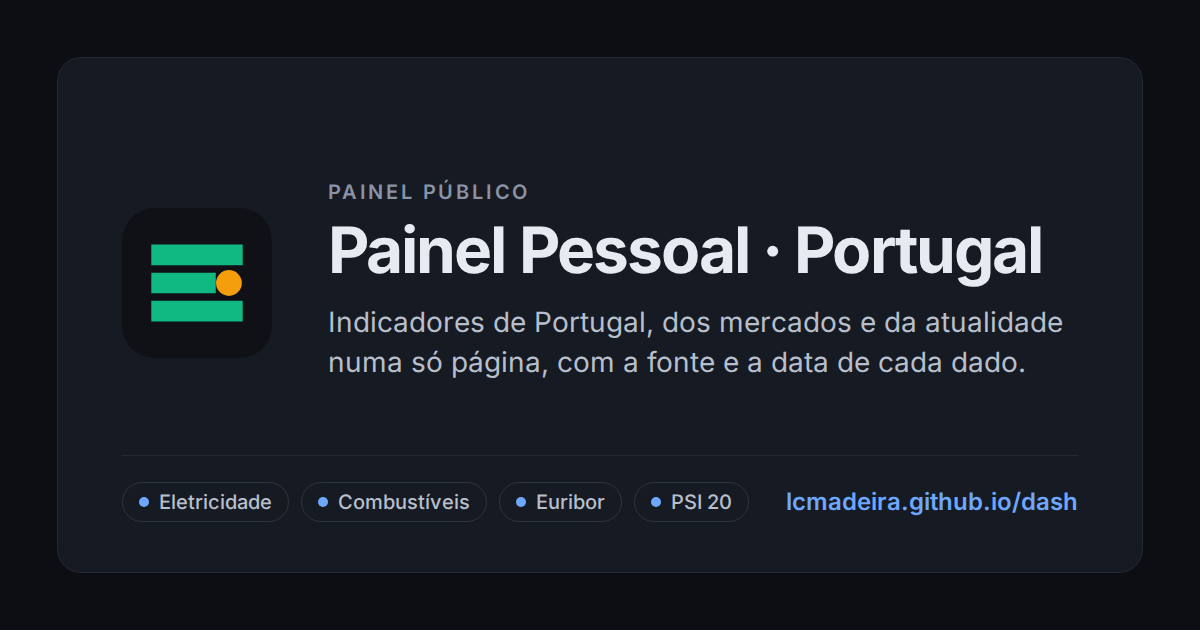
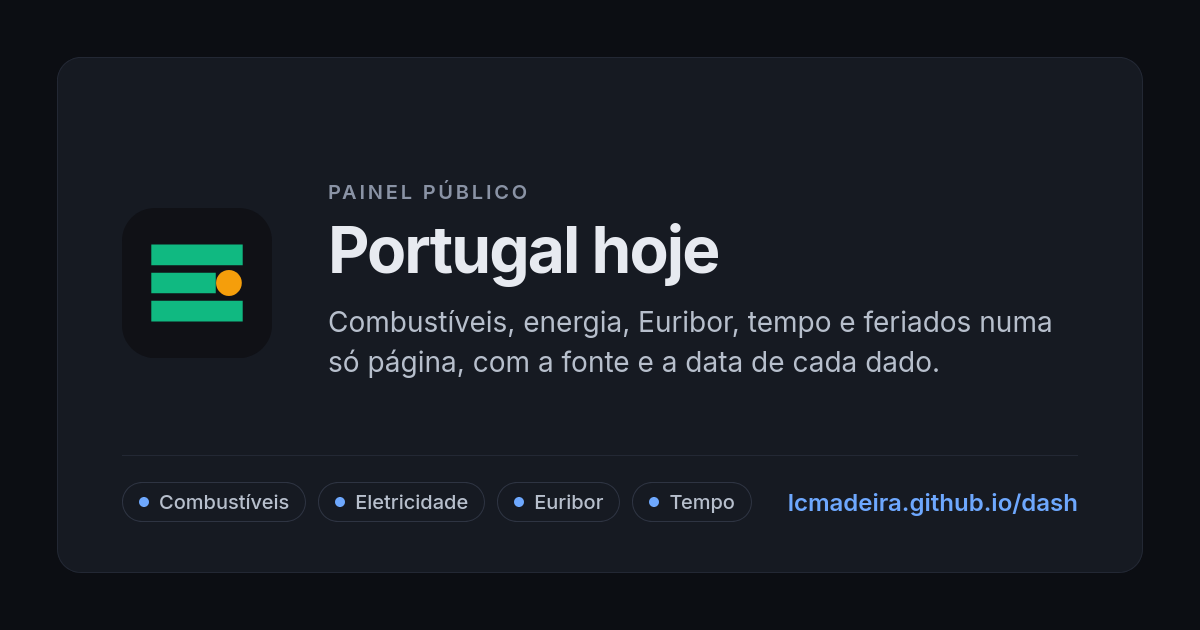
Share image, no stretch on failed cards, Markets at 1/2, holiday sources
- og.png regenerated from scripts/og-image.html ("Portugal hoje"), og:image ?v=2;
  the template documents a Firefox headless alternative.
- Mosaic: cards in error, loading or idle state are not stretched to the
  section bottom; relayout when a card's data-state changes.
- setCardStatus only writes data-state when it changes.
- Markets section: all cards at 1/2 on wide screens (full-width ones kept).
- holidays.js: document where each municipal holiday date was verified.

diff --git a/index.html b/index.html
@@ -14,7 +14,7 @@
 <meta property="og:url" content="https://lcmadeira.github.io/dash/"/>
 <meta property="og:title" content="Portugal hoje"/>
 <meta property="og:description" content="Portugal hoje numa só página: preços dos combustíveis, eletricidade OMIE, Euribor, inflação, tempo, feriados e atualidade, com fonte e data de cada dado."/>
-<meta property="og:image" content="https://lcmadeira.github.io/dash/og.png?v=1"/>
+<meta property="og:image" content="https://lcmadeira.github.io/dash/og.png?v=2"/>
 <meta property="og:image:width" content="1200"/>
 <meta property="og:image:height" content="630"/>
 <meta property="og:image:alt" content="Portugal hoje: combustíveis, energia, Euribor, tempo, feriados e atualidade numa só página."/>
@@ -40,7 +40,7 @@
 <link rel="preconnect" href="https://fonts.googleapis.com"/>
 <link href="https://fonts.googleapis.com/css2?family=Inter:wght@400;500;600;700&display=swap" rel="stylesheet"/>
 <script src="https://cdnjs.cloudflare.com/ajax/libs/Chart.js/4.4.1/chart.umd.min.js"></script>
-<link rel="stylesheet" href="styles.css?v=20261127-19"/>
+<link rel="stylesheet" href="styles.css?v=20261127-20"/>
 <!-- [html-validate-disable require-sri] -->
 <link rel="manifest" href="./manifest.webmanifest"/>
 <!-- [html-validate-enable require-sri] -->
@@ -1084,7 +1084,7 @@
  <script src="src/core.js?v=20261123-30"></script>
  <script src="src/cache.js?v=20261127-6"></script>
  <script src="src/fetch.js?v=20261123-26"></script>
-<script src="src/ui.js?v=20261127-16" integrity="sha384-FfuxkJX3jXSUI30bk0F0U9AnAoFMLSf0yEEEBGIRxAsYTl8/n/Z4ZmLKFU5v09w8"></script>
+<script src="src/ui.js?v=20261127-20" integrity="sha384-uTtbrtvgf7sO2GSztMTSTtJKpDpMBC0tv4BZfZjBML2Smbk1kXn2CxrzpiBZz3PV"></script>
  <script src="src/market-calendar.js?v=20261029-1" integrity="sha384-yJK/LAbvZnS13+ZHroHFKhfOWo+fXm1uM4Y+gmS76BpgPoDtZ/3nnhvsgIgnlBk3"></script>
  <script src="src/cards/briefing.js?v=20261127-11" integrity="sha384-sG/5KoS10FD2+JlOnCXOwna1ekXggZPpC4uw3W/KrWjp+aB6G6kF4bHld+aYgkL0"></script>
  <script src="src/offline.js?v=20261029-2" integrity="sha384-xNxRTbPSnEkNtZ0nSqscdT5Ia0+/d6RqzHXkt4ZjcJTGqMhlUOtZye07+aYT/v71"></script>
@@ -1095,7 +1095,7 @@
  <script src="src/cards/dams.js?v=20261123-22"></script>
  <script src="src/cards/fuel.js?v=20261127-16"></script>
  <script src="src/cards/weather.js?v=20261127-16"></script>
- <script src="src/cards/holidays.js?v=20261127-16"></script>
+ <script src="src/cards/holidays.js?v=20261127-20"></script>
  <script src="src/cards/air-quality.js?v=20261123-22"></script>
  <script src="src/cards/market-stats.js?v=20261123-26"></script>
  <script src="src/cards/real-estate.js?v=20261123-22"></script>
@@ -1121,7 +1121,7 @@
  <!-- Atualizar a versão para invalidar caches após alterações nestes scripts clássicos. -->
  <script src="src/widgets/market-clock.js?v=20261013-5"></script>
 <script src="src/app.js?v=20261127-16"></script>
-<script src="src/layout.js?v=20261127-19" integrity="sha384-kgSn24a5R8ru6qUEzVLfn2DRa5F/LQAtHfmbM4Vid4m8xyMD/jCyZ1ebInuT7Pjd"></script>
+<script src="src/layout.js?v=20261127-20" integrity="sha384-MvHLZ8K+C4rjxBSa0DVwZtlMW6IeZtgM/9mAt9RDxH45tatrzhbW05YrBeih11AY"></script>
 <!-- Cloudflare Web Analytics (sem cookies) -->
 <!-- [html-validate-disable require-sri] -->
 <script type="module" src="https://static.cloudflareinsights.com/beacon.min.js" data-cf-beacon='{"token": "feb824df5867472daf1f4d33da525597"}'></script>

diff --git a/src/layout.js b/src/layout.js
@@ -61,8 +61,10 @@
       placed[card.index] = { start: slot.start, span: card.span, top: slot.top, rows: footprint / ROW_PX, fill: false };
     }
     const height = Math.max(0, ...sky);
-    // Fundo alinhado: estica o card que é o último em todas as colunas que ocupa.
-    placed.forEach((p) => {
+    // Fundo alinhado: estica o card que é o último em todas as colunas que ocupa
+    // (exceto cards marcados noFill: em erro ou ainda sem dados ficariam quase vazios).
+    placed.forEach((p, i) => {
+      if (cards[i].noFill) return;
       let last = true;
       for (let c = p.start; c < p.start + p.span; c++) if (sky[c] !== p.top + p.rows * ROW_PX) last = false;
       if (last && p.top + p.rows * ROW_PX < height) {
@@ -80,6 +82,13 @@
     // "grid-column: span 2" fica em grid-column-start; "x / span 2" fica em grid-column-end.
     const match = /span\s+(\d+)/.exec(`${style.gridColumnStart} ${end}`);
     return match ? Number(match[1]) : 1;
+  }
+
+  /** Card com dados (ao vivo ou em cache)? Em erro, a carregar ou sem estado: não esticar. */
+  function hasData(item) {
+    const status = item.querySelector(".card-status[data-status-for]");
+    if (!status) return true;
+    return !["error", "loading", "idle"].includes(status.dataset.state);
   }
 
   function outerHeight(item) {
@@ -110,7 +119,7 @@
       item.style.gridRowStart = "";
       item.style.gridRowEnd = "";
     });
-    const cards = items.map((item) => ({ span: naturalSpan(item, cols) }));
+    const cards = items.map((item) => ({ span: naturalSpan(item, cols), noFill: !hasData(item) }));
     items.forEach((item, i) => {
       item.style.gridColumn = `span ${cards[i].span}`;
     });
@@ -145,6 +154,8 @@
     // O ResizeObserver só avisa quando o tamanho final muda; medir e repor no mesmo frame não o dispara.
     const resize = new window.ResizeObserver(schedule);
     const observeChildren = (grid) => Array.from(grid.children).forEach((child) => resize.observe(child));
+    const statusChanges = new window.MutationObserver(schedule);
+    const watchStatus = (grid) => statusChanges.observe(grid, { subtree: true, attributes: true, attributeFilter: ["data-state"] });
     const mutations = new window.MutationObserver((records) => {
       records.forEach((record) => record.addedNodes.forEach((node) => {
         if (node.nodeType === 1) resize.observe(node);
@@ -153,6 +164,7 @@
     });
     grids().forEach((grid) => {
       observeChildren(grid);
+      watchStatus(grid);
       mutations.observe(grid, { childList: true });
     });
     window.addEventListener("resize", schedule);

diff --git a/scripts/og-image.html b/scripts/og-image.html
@@ -5,6 +5,9 @@
     python3 -m http.server 8000
     chrome --headless --hide-scrollbars --window-size=1200,630 --virtual-time-budget=5000 \
       --screenshot=og.png "http://localhost:8000/scripts/og-image.html"
+  Sem Chrome, o Firefox também serve (perfil temporário, porque pode estar aberto):
+    firefox --headless --no-remote --profile "$(mktemp -d -p ~)" --window-size=1200,630 \
+      --screenshot ~/og.png "http://localhost:8000/scripts/og-image.html"
   Depois de mudar a imagem, subir o ?v= de og:image em index.html.
 -->
 <html lang="pt-PT">
@@ -29,7 +32,7 @@
   .pills { display: flex; gap: 12px; }
   .pills span { font: 500 20px/1 "Inter", sans-serif; color: #B7BFCC; border: 1px solid #2E3442; border-radius: 999px; padding: 9px 16px; display: flex; align-items: center; gap: 10px; }
   .pills i { width: 10px; height: 10px; border-radius: 50%; background: #6EA8FE; }
-  .domain { font: 600 24px/1 "Inter", sans-serif; color: #6EA8FE; }
+  .domain { font: 600 24px/1 "Inter", sans-serif; color: #6EA8FE; white-space: nowrap; }
 </style>
 </head>
 <body>
@@ -39,11 +42,11 @@
     <div>
       <p class="kicker">Painel público</p>
       <h1>Portugal hoje</h1>
-      <p class="lede">Indicadores de Portugal, dos mercados e da atualidade numa só página, com a fonte e a data de cada dado.</p>
+      <p class="lede">Combustíveis, energia, Euribor, tempo e feriados numa só página, com a fonte e a data de cada dado.</p>
     </div>
   </div>
   <div class="foot">
-    <div class="pills"><span><i></i>Eletricidade</span><span><i></i>Combustíveis</span><span><i></i>Euribor</span><span><i></i>PSI 20</span></div>
+    <div class="pills"><span><i></i>Combustíveis</span><span><i></i>Eletricidade</span><span><i></i>Euribor</span><span><i></i>Tempo</span></div>
     <span class="domain">lcmadeira.github.io/dash</span>
   </div>
 </div>

diff --git a/src/cards/holidays.js b/src/cards/holidays.js
@@ -6,6 +6,11 @@
  * Confirmados em santander.pt/salto/feriados-municipais-portugal-2026 (2026): Lisboa, Porto, Coimbra, Faro,
  * Santarém, Sines, Viana do Castelo. Os restantes seguem a data tradicional do município.
  * Cidades sem entrada: o card diz que não há feriado municipal registado. */
+/* Feriados municipais (verificados a 27-11-2026):
+   Lisboa, Porto, Coimbra, Faro, Santarém, Sines, Viana: lista do Santander;
+   Évora: cm-evora.pt (feriado-municipal); Aveiro: cm-aveiro.pt (festas de Santa Joana);
+   Viseu: Diocese de Viseu e timeanddate; Setúbal: CM Setúbal (Dia de Bocage e da Cidade) e timeanddate;
+   Braga: só a lista "Public holidays in Portugal" da Wikipédia (o site da câmara não abriu). */
 const HOL_MUNIC = {
   "Lisboa":           { month: 6, day: 13, name: "Santo António" },
   "Porto":            { month: 6, day: 24, name: "São João" },

diff --git a/styles.css b/styles.css
@@ -3562,6 +3562,8 @@ button,input,select,textarea{font-family:var(--font)}
   .grid > .s3,.grid > .s4{grid-column:1/-1}
   /* Portugal: todos os cards a 1/3 (larguras iguais evitam buracos no mosaico) */
   .grid[data-section-grid="portugal"] > .s2{grid-column:span 2}
+  /* Mercados: todos a 1/2 (exceto os de largura total) */
+  .grid[data-section-grid="mercados"] > :not(.s3):not(.s4){grid-column:span 3}
 }
 html.masonry .grid{grid-auto-rows:2px;row-gap:0;grid-auto-flow:row dense;align-items:start}
 html.masonry .grid > *{grid-row-start:auto}

diff --git a/tests/layout-pack.test.js b/tests/layout-pack.test.js
@@ -34,3 +34,10 @@ test("the last card of each column stretches to the section bottom", async () =>
   assert.equal(placed[0].rows * 2, 300);
   assert.equal(placed[1].fill, false);
 });
+
+test("cards marked noFill (error or loading) are not stretched", async () => {
+  const pack = await loadPack();
+  const { placed } = pack([{ span: 3, height: 100, noFill: true }, { span: 3, height: 300 }], 6, 0);
+  assert.equal(placed[0].fill, false);
+  assert.equal(placed[0].rows * 2, 100);
+});

diff --git a/src/ui.js b/src/ui.js
@@ -240,7 +240,7 @@
     const el = ensureCardStatusEl(cardId);
     if (!el) return;
     if (el.dataset.state === "loading" && state !== "loading" && !meta.force) return;
-    el.dataset.state = state || "idle";
+    if (el.dataset.state !== (state || "idle")) el.dataset.state = state || "idle";
     const visibleText = text || "—";
     el.textContent = compactStatusText(state || "idle", visibleText);
     el.dataset.fullText = visibleText;
